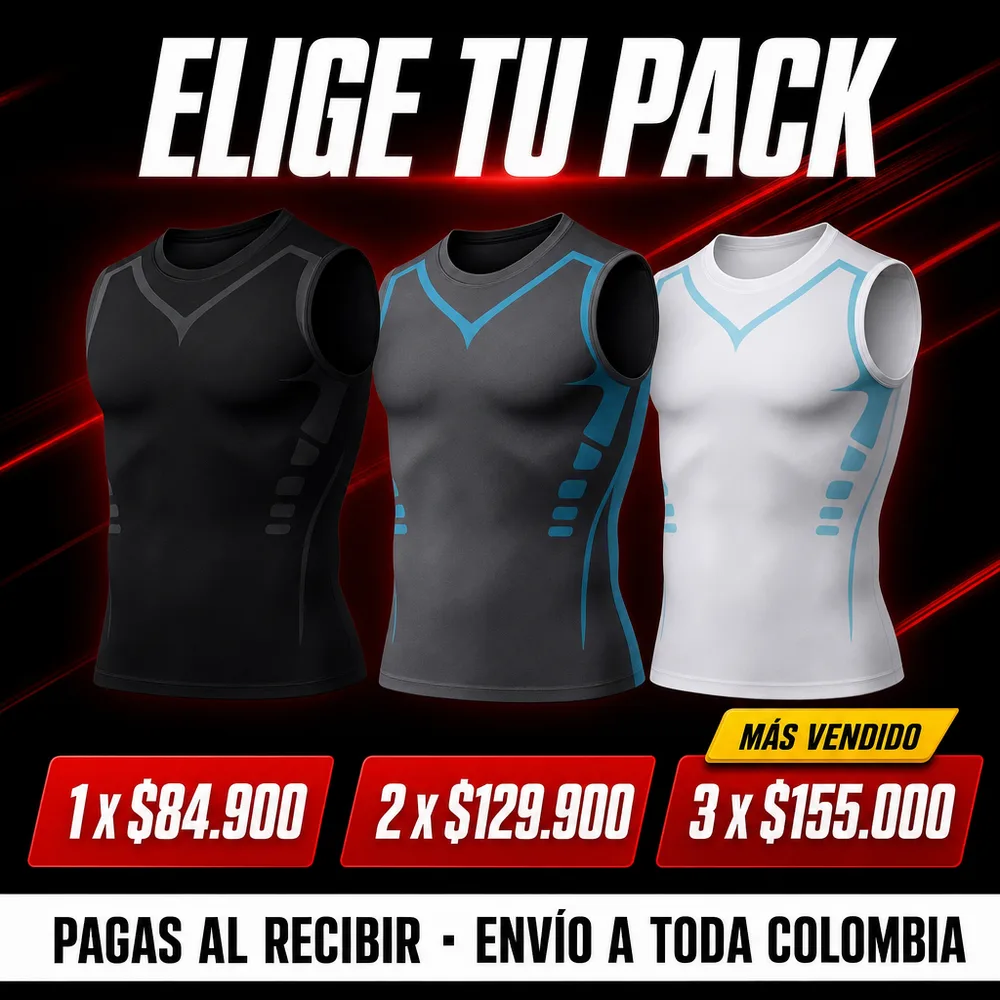
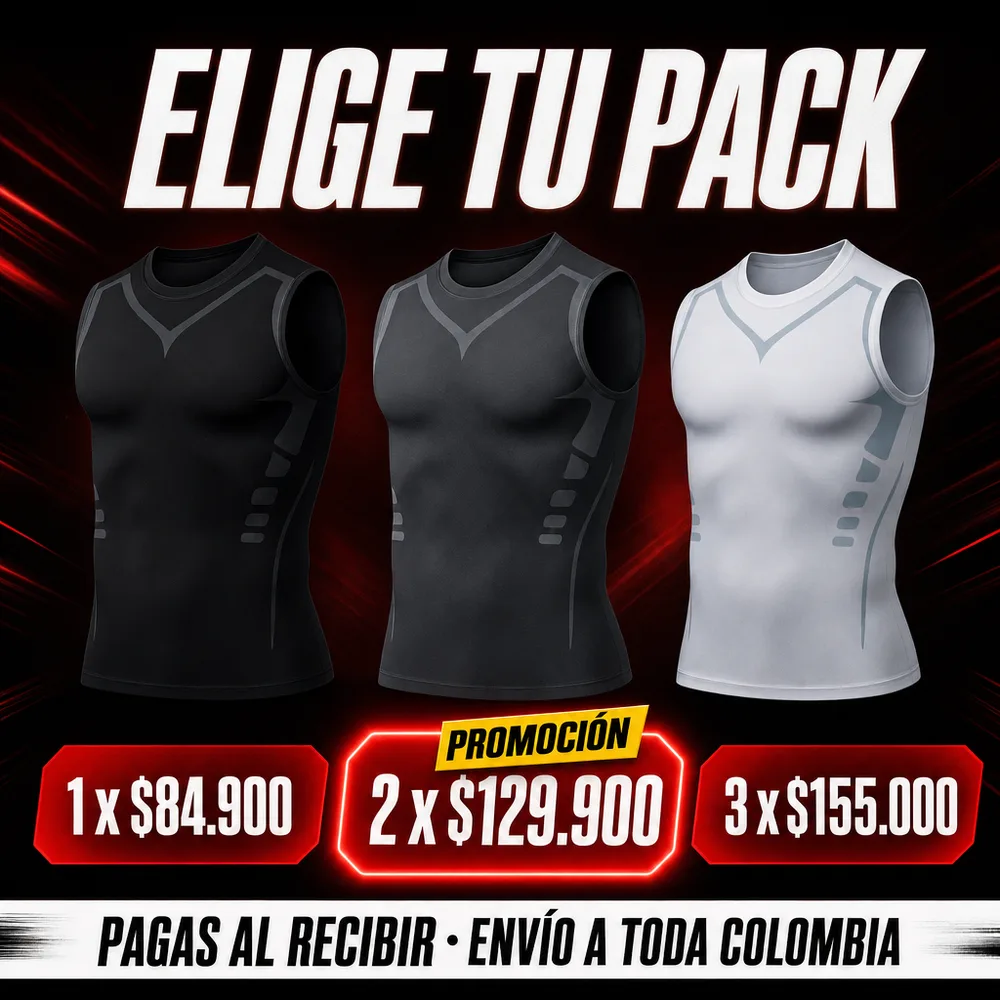
CO camisilla: precio por unidad arriba y la promoción de 2 por $129.900 resaltada (James 14-11); el texto de la portada ya no tapa al modelo

diff --git a/co/camisilla/index.html b/co/camisilla/index.html
@@ -4,11 +4,11 @@
 <meta charset="utf-8">
 <meta name="viewport" content="width=device-width, initial-scale=1, viewport-fit=cover">
 <meta name="facebook-domain-verification" content="k5ow7eqv1klyo3wyc2poxwvi2e7rxc" />
-<title>Camisilla de Compresión Ionfit Pro · 3 por $155.000 · Jaye Group Colombia</title>
-<meta name="description" content="Camisilla de compresión para hombre: espalda recta, abdomen más firme y figura definida bajo la ropa. Negra, gris o blanca, tallas S a 2XL. 3 por $155.000, envío gratis y pago contra entrega en toda Colombia.">
+<title>Camisilla de Compresión Ionfit Pro · 2 por $129.900 · Jaye Group Colombia</title>
+<meta name="description" content="Camisilla de compresión para hombre: espalda recta, abdomen más firme y figura definida bajo la ropa. Negra, gris o blanca, tallas S a 2XL. $84.900 la unidad o 2 por $129.900, envío gratis y pago contra entrega en toda Colombia.">
 <link rel="canonical" href="https://jayegroupshop.com/co/camisilla/">
 <meta name="theme-color" content="#000000">
-<meta property="og:title" content="Camisilla de Compresión Ionfit Pro · 3 por $155.000">
+<meta property="og:title" content="Camisilla de Compresión Ionfit Pro · 2 por $129.900">
 <meta property="og:description" content="Marca tu figura y mantén la espalda recta todo el día. Envío gratis y pago contra entrega.">
 <meta property="og:type" content="product">
 <meta property="og:image" content="https://jayegroupshop.com/co/camisilla/img/cm-oferta.webp">
@@ -19,7 +19,7 @@
 <link rel="stylesheet" href="https://fonts.googleapis.com/css2?family=Bebas+Neue&family=Source+Sans+3:wght@400;600;700&family=Inter:wght@200;300;400;500;600;700;800&display=swap">
 <link rel="preload" as="image" href="img/cm-heroe.webp?v=1">
 <link rel="stylesheet" href="/tienda.css?v=2">
-<link rel="stylesheet" href="camisilla.css?v=2">
+<link rel="stylesheet" href="camisilla.css?v=3">
 <script>
 (function(){var d=document.documentElement;
  var ok=function(){d.classList.add("fuentesListas")};
@@ -59,17 +59,17 @@ window.jayePixel = (function () {
 window.jayePixel.track('PageView', {});
 </script>
 </head>
-<body class="cm" data-fijo="Pedir 3 por $155.000" data-fijo-pack="2">
+<body class="cm" data-fijo="Pedir 2 por $129.900" data-fijo-pack="1">
 
   <div class="pegado" id="pegado">
   <div class="marq" aria-label="Avisos">
     <div class="pista">
       <span>Envío gratis a toda Colombia</span><span>·</span>
       <span>Pagas al recibir</span><span>·</span>
-      <span>3 camisillas por $155.000</span><span>·</span>
+      <span>2 camisillas por $129.900</span><span>·</span>
       <span>Envío gratis a toda Colombia</span><span>·</span>
       <span>Pagas al recibir</span><span>·</span>
-      <span>3 camisillas por $155.000</span><span>·</span>
+      <span>2 camisillas por $129.900</span><span>·</span>
     </div>
   </div>
   <header class="top">
@@ -92,14 +92,15 @@ window.jayePixel.track('PageView', {});
       <img src="img/cm-heroe.webp?v=1" alt="Hombre con la camisilla de compresión negra Ionfit Pro" width="900" height="1350" fetchpriority="high">
     </figure>
     <div class="cm-heroe__txt">
-      <span class="cm-cinta">Promoción · 3 x $155.000</span>
+      <span class="cm-cinta">Promoción · 2 x $129.900</span>
       <h1 class="cm-h1"><span class="cm-palabra">Marca</span> <span class="cm-palabra">tu</span> <span class="cm-palabra"><em>figura</em></span></h1>
       <p class="cm-lead">Camisilla de compresión que te ayuda a mantener la espalda recta y el abdomen firme, todo el día y debajo de tu ropa.</p>
+      <!-- James 14-11: primero el precio por unidad y abajo la promoción de 2 (la que más deja) -->
       <div class="cm-oferta cm-vidrio">
-        <b>$155.000</b> <s>$254.700</s> <span class="cm-ahorro">Ahorras $99.700</span>
-        <span>3 camisillas · pagas al recibir · envío gratis a toda Colombia</span>
+        <b>$84.900</b> <span class="cm-unidad">1 camisilla · pagas al recibir · envío gratis</span>
+        <div class="cm-promo"><span class="cm-promo__rot">Promoción</span><b>2 por $129.900</b><s>$169.800</s><span class="cm-ahorro">Ahorras $39.900</span></div>
       </div>
-      <button type="button" class="cm-btn late" data-pack="2" data-ir="pedir">Pedir 3 por $155.000</button>
+      <button type="button" class="cm-btn late" data-pack="1" data-ir="pedir">Pedir 2 por $129.900</button>
       <button type="button" class="cm-btn cm-btn--vidrio" data-ir="beneficio">Ver cómo funciona</button>
     </div>
   </section>
@@ -200,7 +201,7 @@ window.jayePixel.track('PageView', {});
 
   <!-- 4 · BOTÓN PRINCIPAL / FORMULARIO (plano: Primary CTA) · motor ../ficha.js -->
   <section class="cm-sec" id="paso3">
-    <figure class="cm-foto" style="margin-bottom:26px"><img src="img/cm-oferta.webp?v=1" alt="Packs: 1 por $84.900, 2 por $129.900 y 3 por $155.000" width="1000" height="1000" loading="lazy"></figure>
+    <figure class="cm-foto" style="margin-bottom:26px"><img src="img/cm-oferta.webp?v=2" alt="Packs: 1 por $84.900, 2 por $129.900 y 3 por $155.000" width="1000" height="1000" loading="lazy"></figure>
     <h2 class="cm-h2">Pide tus <em>camisillas</em></h2>
     <div class="cm-pedir cm-vidrio" id="pedir"></div>
   </section>
@@ -279,7 +280,7 @@ window.jayePixel.track('PageView', {});
     </div>
   </footer>
 
-<script src="productos.js?v=2"></script>
+<script src="productos.js?v=3"></script>
 <script src="../ficha.js?v=10"></script>
 <script src="camisilla.js?v=1"></script>
 <!-- WhatsApp como en Chile: solo la bolita verde en la esquina; sube cuando aparece el botón fijo -->

diff --git a/co/camisilla/camisilla.css b/co/camisilla/camisilla.css
@@ -57,6 +57,12 @@
 .cm-oferta s{color:var(--cm-tenue);font-size:20px}
 .cm-oferta span{flex-basis:100%;font-size:15px;color:var(--cm-blanco);letter-spacing:.03em}
 .cm-oferta .cm-ahorro{flex-basis:auto;background:var(--cm-rojo);color:var(--cm-puro);font-weight:700;padding:4px 10px;border-radius:6px;font-size:14px}
+/* James 14-11: precio por unidad arriba y, abajo, la promoción de 2 resaltada */
+.cm-oferta .cm-unidad{flex-basis:auto;flex:1;font-size:14px;color:var(--cm-tenue)}
+.cm-promo{flex-basis:100%;display:flex;align-items:center;flex-wrap:wrap;gap:4px 10px;margin-top:8px;padding:12px 14px;border-radius:14px;border:1px solid var(--cm-rojo);background:rgba(220,38,38,.16);box-shadow:0 0 30px rgba(220,38,38,.25)}
+.cm-promo .cm-promo__rot{flex-basis:100%;font:600 12px/1 'Source Sans 3',sans-serif;letter-spacing:.28em;text-transform:uppercase;color:var(--cm-rojo2)}
+.cm-oferta .cm-promo b{font:400 44px/1 'Bebas Neue',sans-serif;color:var(--cm-puro)}
+.cm-oferta .cm-promo s{font-size:17px}
 
 /* --- botones con efecto: brillo que cruza + latido + resplandor rojo --- */
 .cm-btn,.cm .cr-btn{position:relative;overflow:hidden;display:flex;align-items:center;justify-content:center;gap:10px;width:100%;min-height:62px;padding:14px 20px;border:0;border-radius:14px;cursor:pointer;

diff --git a/co/camisilla/productos.js b/co/camisilla/productos.js
@@ -15,10 +15,10 @@ window.PRODUCTOS = [{
   unidad: 'pack',
   packs: [
     { cant: 1, precio: 84900, texto: '1 camisilla', detalle: 'para probarla' },
-    { cant: 2, precio: 129900, antes: 169800, texto: '2 camisillas', detalle: 'una puesta y otra lavándose' },
-    { cant: 3, precio: 155000, antes: 254700, texto: '3 camisillas', detalle: 'una para cada color', nivel: 'Mejor precio' },
+    { cant: 2, precio: 129900, antes: 169800, texto: '2 camisillas', detalle: 'una puesta y otra lavándose', nivel: 'Promoción' },
+    { cant: 3, precio: 155000, antes: 254700, texto: '3 camisillas', detalle: 'una para cada color' },
   ],
-  popular: 2,
+  popular: 1,   /* James 14-11: se promociona la de 2, la que más deja */
   disenoUnidad: 'camisilla',
   disenosTitulo: 'Elige color y talla de cada camisilla',
   disenoVacio: 'Escoge color y talla',
